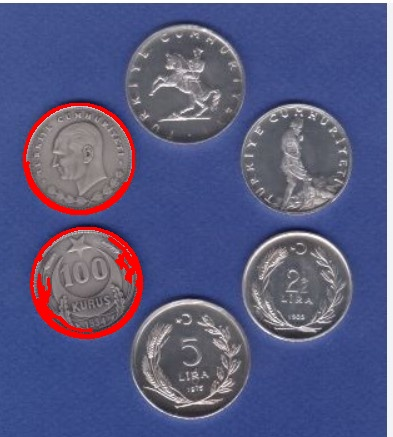
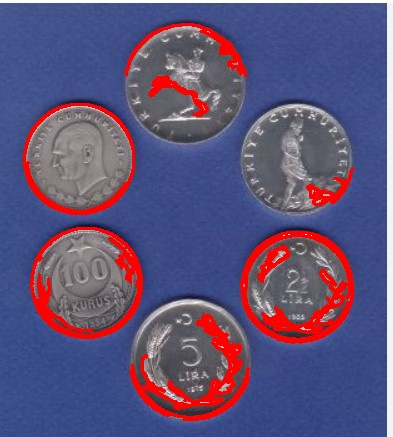
parameters have been changed.

diff --git a/Konsol3/src/main.py b/Konsol3/src/main.py
@@ -1,7 +1,7 @@
 import cv2
 import numpy as np
 
-image = cv2.imread("../input/test_image.jpg")
+image = cv2.imread("../input/test_image_1.jpg")
 
 
 canny = cv2.Canny(image, 130, 250)
@@ -10,11 +10,11 @@ contours, hierarchy = cv2.findContours(canny, cv2.RETR_TREE, cv2.CHAIN_APPROX_SI
 
 for cnt in contours:
     # Sadece en büyük konturu ayıklıyoruz
-    if cv2.contourArea(cnt) > 2000:
+    if cv2.contourArea(cnt) >  70:
         # Konturları çiziyoruz
         cv2.drawContours(image, [cnt], 0, (0, 0, 255), 2)
 
-cv2.imwrite("../output/test_output.jpg", image)
+cv2.imwrite("../output/test_output_1.jpg", image)
 
 
 """
